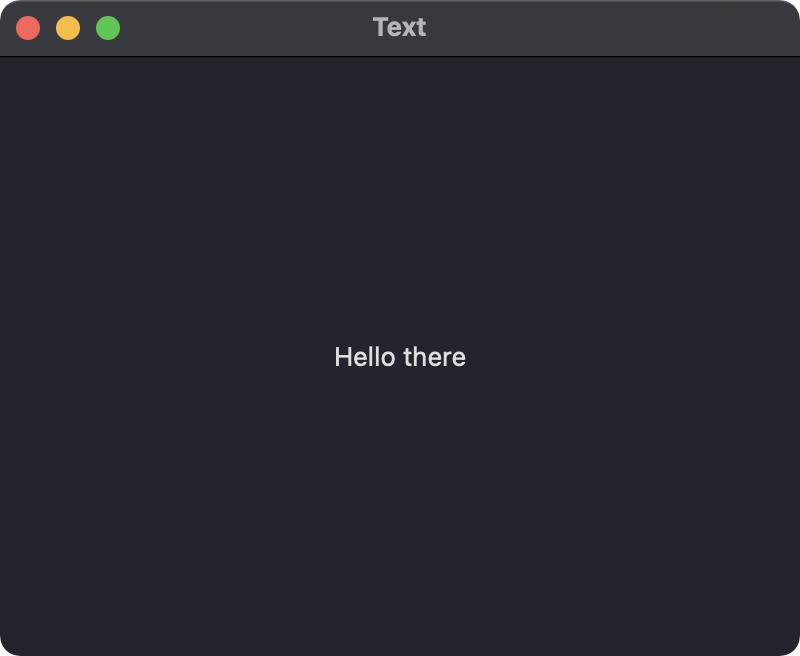
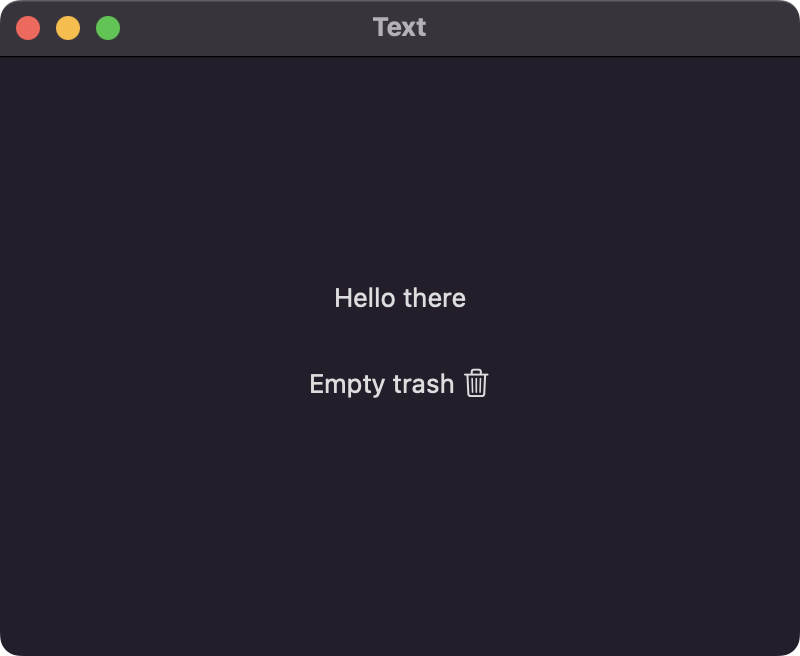
Add text with inline image

Changed region(s): [[0.375, 0.5183, 0.625, 0.6098], [0.4062, 0.4268, 0.5938, 0.4878], [0.5, 0.0305, 0.5312, 0.061]]

diff --git a/examples/Text/Text/ContentView.swift b/examples/Text/Text/ContentView.swift
@@ -12,6 +12,10 @@ struct ContentView: View {
         VStack {
             // Basic text view
             Text("Hello there")
+            
+            // Text with inline image
+            Text("Empty trash \(Image(systemName: "trash"))")
+                .padding()
         }
         .frame(width: 400, height: 300)
     }

diff --git a/docs/swiftui/text.html b/docs/swiftui/text.html
@@ -38,6 +38,10 @@ struct ContentView: View {
         VStack {
             // Basic text view
             Text("Hello there")
+
+            // Text with inline image
+            Text("Empty trash \(Image(systemName: "trash"))")
+                .padding()
         }
         .frame(width: 400, height: 300)
     }
